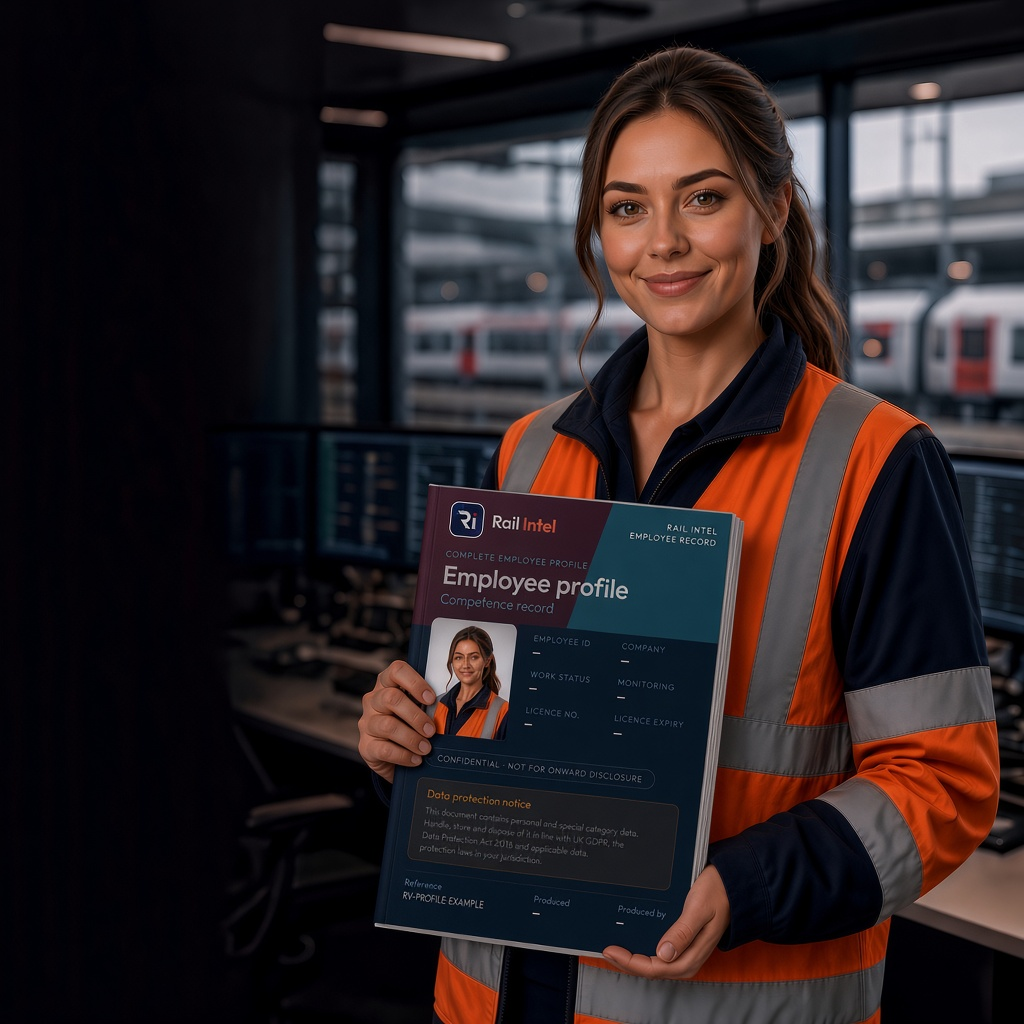
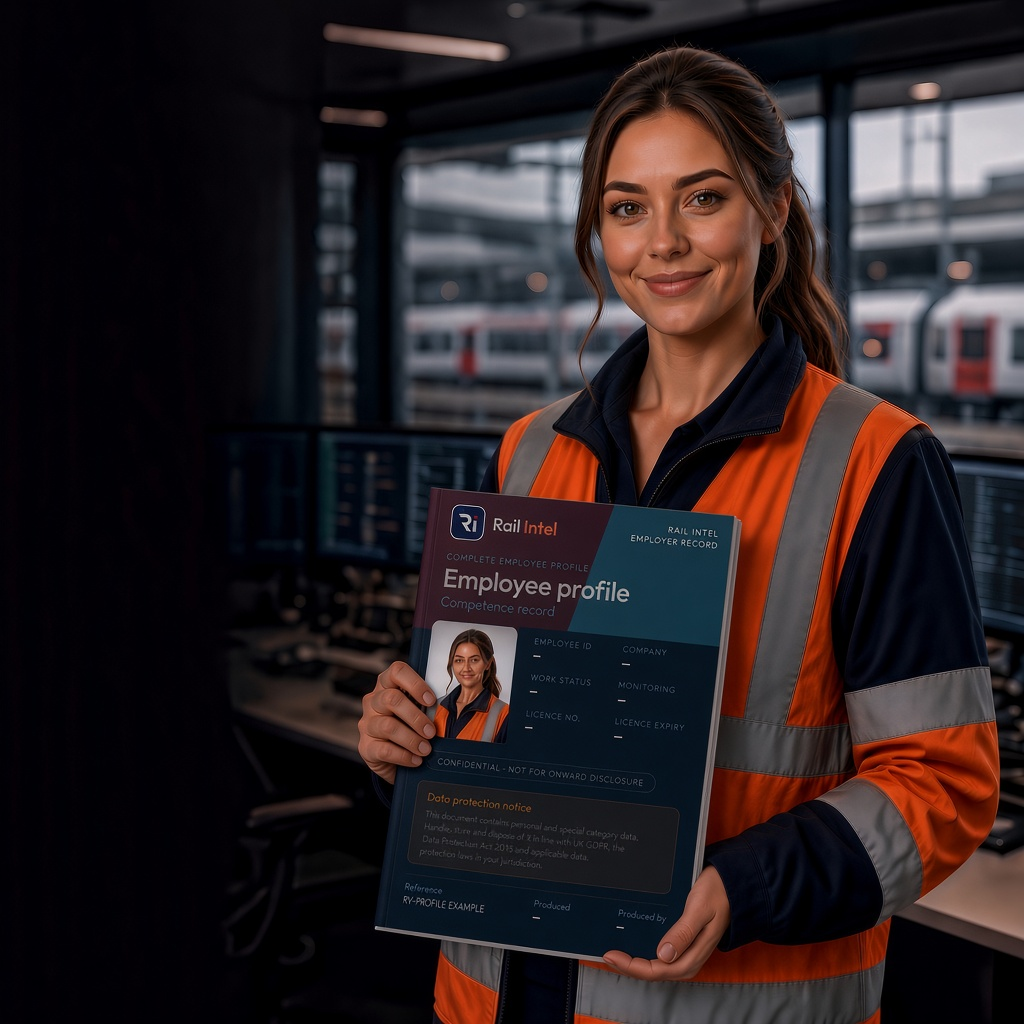
Fix mobile flipbook scaling and slim down hero brochure depth.
Scale brochure page content to fit smaller screens and replace the hero image with a thinner booklet profile.

diff --git a/js/profile-flipbook.js b/js/profile-flipbook.js
@@ -67,18 +67,58 @@
     return window.visualViewport ? window.visualViewport.height : window.innerHeight;
   }
 
+  function getSiteChromeHeight() {
+    var chrome = document.querySelector(".site-chrome");
+
+    if (chrome) {
+      return Math.ceil(chrome.getBoundingClientRect().bottom);
+    }
+
+    return 0;
+  }
+
   function getMaxBookHeight() {
     var height = getViewportHeight();
 
     if (isSinglePageMode()) {
       if (isMobileLandscape()) {
-        return Math.min(height * 0.88, height - 48);
+        return Math.min(height * 0.82, height - 56);
       }
 
-      return Math.min(height * 0.56, 500);
+      if (!wrap || !section) {
+        return Math.min(height * 0.46, 400);
+      }
+
+      var controls = section.querySelector(".profile-flipbook__controls");
+      var stagePanel = wrap.parentElement;
+      var intro = section.querySelector(".profile-flipbook__intro");
+      var controlsHeight = controls ? controls.offsetHeight + 12 : 52;
+      var introHeight = intro ? intro.offsetHeight + 10 : 0;
+      var panelStyles = stagePanel ? window.getComputedStyle(stagePanel) : null;
+      var padY = panelStyles ? parseFloat(panelStyles.paddingTop) + parseFloat(panelStyles.paddingBottom) : 0;
+      var chromeHeight = getSiteChromeHeight();
+      var available = height - chromeHeight - introHeight - padY - controlsHeight - 14;
+
+      if (stagePanel) {
+        var panelTop = stagePanel.getBoundingClientRect().top;
+        var liveAvailable = height - panelTop - padY - controlsHeight - 12;
+
+        if (liveAvailable > 200 && panelTop < height * 0.85) {
+          available = Math.max(available, liveAvailable);
+        }
+      }
+
+      return Math.max(240, Math.min(available, 440));
     }
 
     return Math.min(height * 0.68, 800);
+  }
+
+  function syncBrochureScale(metrics) {
+    if (!metrics) return;
+
+    var scale = metrics.pageWidth / PAGE_WIDTH;
+    root.style.setProperty("--brochure-scale", String(scale));
   }
 
   function updateLayoutClasses() {
@@ -151,6 +191,7 @@
 
     wrap.style.width = size.bookWidth + "px";
     wrap.style.height = size.bookHeight + "px";
+    syncBrochureScale(size);
     return size;
   }
 
@@ -334,5 +375,16 @@
 
   if (window.visualViewport) {
     window.visualViewport.addEventListener("resize", scheduleResize);
+  }
+
+  if (section && "IntersectionObserver" in window) {
+    var visibilityObserver = new IntersectionObserver(
+      function (entries) {
+        if (entries[0] && entries[0].isIntersecting) scheduleResize();
+      },
+      { threshold: 0.15 }
+    );
+
+    visibilityObserver.observe(section);
   }
 })();

diff --git a/css/profile-flipbook.css b/css/profile-flipbook.css
@@ -61,12 +61,17 @@
 
 @media (max-width: 768px) {
   .profile-flipbook {
-    padding: 1.75rem 0 2.5rem;
+    padding: 1.25rem 0 1.75rem;
   }
 
   .profile-flipbook__intro {
-    margin-bottom: 1.25rem;
+    margin-bottom: 0.85rem;
     padding: 0 0.75rem;
+  }
+
+  .profile-flipbook__intro h2 {
+    margin-bottom: 0.5rem;
+    font-size: clamp(1.25rem, 5vw, 1.5rem);
   }
 
   .profile-flipbook__lead {
@@ -83,13 +88,13 @@
   }
 
   .profile-flipbook__stage-panel {
-    padding: 0.85rem;
+    padding: 0.65rem;
     border-radius: 1rem;
   }
 
   .profile-flipbook__controls {
-    margin-top: 1rem;
-    gap: 0.65rem 0.85rem;
+    margin-top: 0.75rem;
+    gap: 0.5rem 0.75rem;
   }
 
   .profile-flipbook__btn {
@@ -342,8 +347,9 @@
 /* Brochure page canvas */
 
 .brochure-page {
-  --brochure-footer-height: 3.85rem;
-  --brochure-footer-gap: 0.4rem;
+  --brochure-footer-height: 3.85em;
+  --brochure-footer-gap: 0.4em;
+  --brochure-scale: 1;
   position: relative;
   box-sizing: border-box;
   width: 100%;
@@ -353,7 +359,7 @@
   padding: 0;
   color: #e8edf5;
   font-family: "Outfit", system-ui, sans-serif;
-  font-size: 10px;
+  font-size: calc(10px * var(--brochure-scale));
   line-height: 1.35;
   background: #012269;
   -webkit-font-smoothing: antialiased;

diff --git a/features/printable-profile.html b/features/printable-profile.html
@@ -262,7 +262,7 @@
           <div class="page-hero__media">
         <figure class="shot shot--bordered reveal">
           <div class="shot__frame" style="--shot-native-width: 512px" data-no-expand="">
-            <img src="../images/product/printable-profile-hero.png?v=105978717" alt="Rail professional holding a printed Rail Intel Employee Profile brochure, matching the full-colour record layout." width="512" height="512" loading="eager" decoding="sync" />
+            <img src="../images/product/printable-profile-hero.png?v=2026092015" alt="Rail professional holding a printed Rail Intel Employee Profile brochure, matching the full-colour record layout." width="512" height="512" loading="eager" decoding="sync" />
           </div>
         </figure>
           </div>
